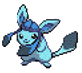
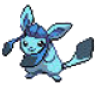
rectification de problèmes dans boucles de jeu

Changed region(s): [[0.0, 0.0274, 0.9512, 0.9589], [0.3415, 0.3562, 0.3902, 0.3836], [0.2927, 0.3562, 0.3171, 0.3836]]

diff --git a/frontend/src/Components/Pages/EvoRumblePage.js b/frontend/src/Components/Pages/EvoRumblePage.js
@@ -107,6 +107,7 @@ function renderGoBackHomeButton() {
     clearPage();
     Navigate('/');
   });
+
   const rematch = document.createElement('input');
   rematch.value = 'Rematch';
   rematch.className = 'btn btn-success mt-3 mx-2';
@@ -142,7 +143,7 @@ async function creationParties() {
     gameState.attacksAndDamages = monsterAndAttack.allAttacks;
 
     // création des équipes avec des monstres au hasard
-    // essayer de faire ne sorte qu'il n'y ai que des monstres différents
+    // essayer de faire ne sorte qu'il n'y ai que des monstres différents ?
     for (let i = 0; i < nbMonstresParEquipe; i += 1) {
       const randomIndex1 = Math.floor(Math.random() * monstres.length);
       const randomIndex2 = Math.floor(Math.random() * monstres.length);
@@ -162,7 +163,7 @@ async function creationParties() {
     // historique remis à zero
     historique.id = 'hist';
     historique.innerHTML =
-      '<div class="text-decoration-underline">Historique des attaques éffectuées:</div>';
+      `<div id='hist_title'>Historique des attaques éffectuées:</div>`;
     renderGameState();
   } catch (err) {
     console.error('showAllMonsters::error: ', err);
@@ -182,15 +183,15 @@ function renderGameState() {
   const main = document.querySelector('main');
   // si l'une des équipes n'a plus de monstres => fin de partie
   if (gameState.opponentTeam.length === 0 || gameState.firstPlayerTeam.length === 0) {
-    main.innerHTML = `La partie est terminée<br>`;
     renderGoBackHomeButton();
   } else {
+    const indexMonster = gameState.firstPlayerTeam.findIndex((monstre) => monstre.nom === gameState.activeMonsterPlayer.nom);
     // eslint-disable-next-line no-unused-vars
-    const nomMonstre1 = gameState.activeMonsterPlayer;
+    const playerMonster = gameState.activeMonsterPlayer;
     // eslint-disable-next-line no-unused-vars
-    const nomMonstre2 = gameState.opponentActiveMonster;
-    console.log(`EQ1: ${nomMonstre1.nom}`);
-    console.log(`EQ2: ${nomMonstre2.nom}`);
+    const opponentMonster = gameState.opponentActiveMonster;
+    console.log(`EQ1: ${playerMonster.nom}`);
+    console.log(`EQ2: ${opponentMonster.nom}`);
     main.innerHTML = `<div class="container bg-white text-center mt-5">
 <div class="row">
   <div class="col gameWindow m-1 border bg-image" style="background-image: url(${background}); background-size: cover; background-position: center;">
@@ -198,8 +199,9 @@ function renderGameState() {
     <div id="opponent">
       <div id="info">
         <div id="nameOpponent">
-          ${nomMonstre2.nom}
-          (${nomMonstre2.type})
+          ${opponentMonster.nom}
+          (${opponentMonster.type})
+          PV: ${opponentMonster.pointsDeVie}/${gameState.baseLifeListTeam2[0]}
         </div>
 
         <div id="opponentLifeBar">
@@ -211,22 +213,23 @@ function renderGameState() {
 
       </div>
 
-      <div  id="monstre_2">
-        <img src="${dicoImg[nomMonstre2.nom]}" class="img-fluid float-right">
+      <div  id="monstre_oppopnent">
+        <img src="${dicoImg[opponentMonster.nom]}" class="img-fluid float-right">
       </div>
     </div>
 
     <div id="spacebetween"></div>
 
     <div id="player">
-      <div id="monstre_1">
-            <img src="${dicoImg[nomMonstre1.nom]}" class="img-fluid float-left">
+      <div id="monstre_player">
+            <img src="${dicoImg[playerMonster.nom]}" class="img-fluid float-left img_player">
       </div>
 
       <div id="info">
         <div id="namePlayer">
-          ${nomMonstre1.nom}
-          (${nomMonstre1.type})
+          ${playerMonster.nom}
+          (${playerMonster.type})
+          PV: ${playerMonster.pointsDeVie}/${gameState.baseLifeListTeam1[indexMonster]}
         </div>
         <div id="playerLifeBar">
           <div id="vieRempliePlayer"></div>
@@ -241,18 +244,16 @@ function renderGameState() {
 
   <div class="col  history m-1 border"></div>
   <div class="w-100"></div>
-  <div class="col atkButtons m-1 border"></div>
+  <div class="atkButtons m-1 border"></div>
   <div class="col quitButton m-1 border"></div>
 </div>
 </div>`;
 
-    const perso1 = document.getElementById('monstre_1');
-    const perso2 = document.getElementById('monstre_2');
+    const perso1 = document.getElementById('monstre_player');
+    const perso2 = document.getElementById('monstre_oppopnent');
 
-    console.log(`VIE DE BASE OP ${gameState.baseLifeTeam2}`);
-    console.log(`VIE DE BASE J ${gameState.baseLifeTeam1}`);
-    mettreAJourBarreDeVie(getPourcentageLifeLeft(gameState.opponentActiveMonster.pointsDeVie, gameState.baseLifeTeam2), 1);
-    mettreAJourBarreDeVie(getPourcentageLifeLeft(gameState.activeMonsterPlayer.pointsDeVie, gameState.baseLifeTeam1), 2);
+    updateLifeBar(getPourcentageLifeLeft(gameState.opponentActiveMonster.pointsDeVie, gameState.baseLifeTeam2), 1);
+    updateLifeBar(getPourcentageLifeLeft(gameState.activeMonsterPlayer.pointsDeVie, gameState.baseLifeTeam1), 2);
     // animation du monstre de l'équipe 1
     anime({
       targets: perso1,
@@ -260,7 +261,7 @@ function renderGameState() {
         { value: '-10px', duration: 1500, easing: 'easeInOutQuad' }, // Déplacement vers le haut
         { value: '0px', duration: 1500, easing: 'easeInOutQuad' }, // Retour vers le bas
       ],
-      easing: 'linear', // Utiliser 'linear' pour un mouvement fluide
+      easing: 'linear',
       loop: true,
     });
 
@@ -271,7 +272,7 @@ function renderGameState() {
         { value: '-10px', duration: 1400, easing: 'easeInOutQuad' }, // Déplacement vers le haut
         { value: '0px', duration: 1400, easing: 'easeInOutQuad' }, // Retour vers le bas
       ],
-      easing: 'linear', // Utiliser 'linear' pour un mouvement fluide
+      easing: 'linear',
       loop: true,
     });
 
@@ -288,29 +289,28 @@ function renderGameState() {
       atk.innerHTML = `<div class="nom">${attackName} </div><div class="damage">${atkProperties.damage} damage </div><div class="type"> (${atkProperties.type})</div>`;
       atk.addEventListener('click', (e) => {
         const nbDegats = atkProperties.damage;
+        let multiplicateur;
 
         const nom = e.currentTarget.querySelector('.nom').innerHTML;
 
         switch (true) {
           case gameState.opponentActiveMonster.faiblesses.includes(atkProperties.type):
-            historique.innerHTML += `Le joueur 1 a joué ${nom} pour une valeur de ${nbDegats *
-              2} pv<br>`;
-            gameState.opponentActiveMonster.pointsDeVie -= nbDegats * 2;
+            multiplicateur = 2;
             break;
 
           case gameState.opponentActiveMonster.resistances.includes(atkProperties.type):
-            historique.innerHTML += `Le joueur 1 a joué ${nom} pour une valeur de ${nbDegats /
-              2} pv<br>`;
-            gameState.opponentActiveMonster.pointsDeVie -= nbDegats / 2;
+            multiplicateur = 0.5;
             break;
 
           default:
-            historique.innerHTML += `Le joueur 1 a joué ${nom} pour une valeur de ${nbDegats} pv<br>`;
-            gameState.opponentActiveMonster.pointsDeVie -= nbDegats;
+            multiplicateur = 1;
             break;
         }
 
-        mettreAJourBarreDeVie(getPourcentageLifeLeft(gameState.opponentActiveMonster.pointsDeVie, gameState.baseLifeTeam2), 1);
+        historique.innerHTML += `Le joueur 1 a joué ${nom} pour une valeur de ${nbDegats} pv<br>`;
+        gameState.opponentActiveMonster.pointsDeVie -= (nbDegats*multiplicateur);
+
+        updateLifeBar(getPourcentageLifeLeft(gameState.opponentActiveMonster.pointsDeVie, gameState.baseLifeTeam2), 1);
       
 
         if (gameState.opponentActiveMonster.pointsDeVie <= 0) {
@@ -321,21 +321,20 @@ function renderGameState() {
           gameState.opponentTeam.splice(index, 1); 
           gameState.baseLifeListTeam2.splice(index, 1); 
 
-          // problème quand liste vide
           [gameState.opponentActiveMonster] = gameState.opponentTeam;
+
           // eslint-disable-next-line prefer-destructuring
           gameState.baseLifeTeam2 = gameState.baseLifeListTeam2[0];
-          console.log(gameState.opponentActiveMonster);
 
-          // signifie qu'il n'y a plus de monstre dans l'équipe
+          // signifie qu'il y a un monstre dans l'équipe
           if (gameState.opponentActiveMonster !== undefined){
             gameState.baseLifeTeam2 = gameState.opponentActiveMonster.pointsDeVie;
           }
           
         } else {
-          playOrdi();
+          opponentPlay();
           
-          mettreAJourBarreDeVie(getPourcentageLifeLeft(gameState.activeMonsterPlayer.pointsDeVie, gameState.baseLifeTeam1), 2);
+          updateLifeBar(getPourcentageLifeLeft(gameState.activeMonsterPlayer.pointsDeVie, gameState.baseLifeTeam1), 2);
           if (gameState.activeMonsterPlayer.pointsDeVie <= 0) {
             historique.innerHTML += `<div class="text-danger">EQUIPE 1: Le monstre ${JSON.stringify(
               gameState.activeMonsterPlayer.nom,
@@ -355,22 +354,27 @@ function renderGameState() {
       document.querySelector('.atkButtons').appendChild(divAttack);
     }
 
+    // document.querySelector('.atkButtons').innerHTML += 'Choisissez un autre monstre à faire renter en jeu:'
     // crétaion des boutons pour permettre de changer parmis les monstres restants
     for (let i = 0; i < gameState.firstPlayerTeam.length; i += 1) {
       if (gameState.firstPlayerTeam[i] !== gameState.activeMonsterPlayer) {
         const monstre = document.createElement('button');
-        monstre.className = 'btn btn-info m-1';
-        monstre.innerHTML = `${gameState.firstPlayerTeam[i].nom}`;
+        const currentMonster = gameState.firstPlayerTeam[i];
+
+        monstre.className = 'btn m-1';
+        monstre.id = `btn-${currentMonster.type}`;
+        monstre.innerHTML = `<div>Nom: ${currentMonster.nom}</div><div>PV: ${currentMonster.pointsDeVie}/${gameState.baseLifeListTeam1[i]}</div>`;
+
         monstre.addEventListener('click', () => {
           gameState.activeMonsterPlayer = gameState.firstPlayerTeam[i];
           gameState.baseLifeTeam1 = gameState.baseLifeListTeam1[i];
           historique.innerHTML += `<div class="text-success">EQUIPE 1: Le monstre ${JSON.stringify(
             gameState.activeMonsterPlayer.nom,
           )} est entré</div>`;
-          document.querySelector('#monstre_2').innerHTML = `<img src="${
+          document.querySelector('#monstre_player').innerHTML = `<img src="${
             dicoImg[gameState.activeMonsterPlayer.nom]
           }" class="img-fluid float-right">`;
-          playOrdi();
+          opponentPlay();
           clearPage();
           renderGameState();
         });
@@ -387,36 +391,36 @@ function renderGameState() {
     document.querySelector('.quitButton').appendChild(rageQuit);
     // document.querySelector('.quitButton').innerHTML += getHtmlNbMonster(4);
   }
-
-  function playOrdi() {
-    const randomAtkIndex = Math.floor(Math.random() * 4);
-    let atkOrdi = gameState.opponentActiveMonster.attaques[randomAtkIndex];
-    atkOrdi = getDamage(atkOrdi);
-    const nbDegatsOrdi = atkOrdi.damage;
-    switch (true) {
-      case gameState.activeMonsterPlayer.faiblesses.includes(atkOrdi.type):
-        historique.innerHTML += `Le joueur 2 a joué ${
-          atkOrdi.name
-        } pour une valeur de ${nbDegatsOrdi * 2} pv<br>`;
-        gameState.activeMonsterPlayer.pointsDeVie -= nbDegatsOrdi * 2;
-        break;
-
-      case gameState.activeMonsterPlayer.resistances.includes(atkOrdi.type):
-        historique.innerHTML += `Le joueur 2 a joué ${
-          atkOrdi.name
-        } pour une valeur de ${nbDegatsOrdi / 2} pv<br>`;
-        gameState.activeMonsterPlayer.pointsDeVie -= nbDegatsOrdi / 2;
-        break;
-
-      default:
-        historique.innerHTML += `Le joueur 2 a joué ${atkOrdi.name} pour une valeur de ${nbDegatsOrdi} pv<br>`;
-        gameState.activeMonsterPlayer.pointsDeVie -= nbDegatsOrdi;
-        break;
-    }
-  }
 }
 
-function mettreAJourBarreDeVie(pourcentage, numberPlayer) {
+
+function opponentPlay() {
+  const randomAtkIndex = Math.floor(Math.random() * 4);
+  let atkOrdi = gameState.opponentActiveMonster.attaques[randomAtkIndex];
+  atkOrdi = getDamage(atkOrdi);
+  const nbDegatsOrdi = atkOrdi.damage;
+  let multiplicateur;
+
+  switch (true) {
+    case gameState.activeMonsterPlayer.faiblesses.includes(atkOrdi.type):
+      multiplicateur = 2;
+      break;
+
+    case gameState.activeMonsterPlayer.resistances.includes(atkOrdi.type):
+      multiplicateur = 0.5;
+      break;
+
+    default:
+      multiplicateur = 1;
+      break;
+  }
+
+  historique.innerHTML += `<div>Le joueur 2 a joué ${atkOrdi.name} pour une valeur de ${nbDegatsOrdi*multiplicateur} pv</div><br>`;
+  gameState.activeMonsterPlayer.pointsDeVie -= (nbDegatsOrdi*multiplicateur);
+}
+
+
+function updateLifeBar(pourcentage, numberPlayer) {
   const barreDeVieRemplieOpponent = document.getElementById('vieRemplieOpponent');
   const barreDeVieRempliePlayer = document.getElementById('vieRempliePlayer');
 

diff --git a/frontend/src/Components/Navbar/Navbar.js b/frontend/src/Components/Navbar/Navbar.js
@@ -1,6 +1,7 @@
 // eslint-disable-next-line no-unused-vars
 import { Navbar as BootstrapNavbar } from 'bootstrap';
-import { isAuthenticated, getAuthenticatedUser} from '../../utils/auths' 
+import { isAuthenticated, getAuthenticatedUser} from '../../utils/auths';
+import logo from '../../img/LogoJS.png';
 
 /**
  * Render the Navbar which is styled by using Bootstrap
@@ -23,7 +24,9 @@ const Navbar = () => {
           </div>
           <div class="nav-item col-4 text-center" id="divCentre">
             <div class="nav-item p-2">
-              <a class="nav-link" href="#" data-uri="/">EvoRumbleLOGO</a>
+              <a class="nav-link" href="#" data-uri="/">
+                <img src="${logo}" alt="Logo EvoRumble">
+              </a>
             </div>
           </div>
           <div class="nav-item col-4 d-flex justify-content-end" id="divDroite">

diff --git a/frontend/src/stylesheets/main.css b/frontend/src/stylesheets/main.css
@@ -266,3 +266,43 @@ body{
     margin: 10px;
 }
 
+.atkButtons{
+    width: 75%;
+}
+
+#btn-vol{
+    background-color: rgb(202, 200, 200);
+}
+
+#btn-electric{
+    background-color: rgb(248, 248, 180);
+}
+
+#btn-feu{
+    background-color: rgb(255, 215, 142);
+}
+
+#btn-plante{
+    background-color: rgb(229, 255, 191);
+}
+
+#btn-eau{
+    background-color: rgb(182, 225, 253);
+}
+
+#btn-terre{
+    background-color: rgb(197, 180, 157);
+}
+
+.img_player{
+    transform: scaleX(-1);
+}
+
+#hist_title{
+    font-weight: bold;
+    text-decoration: underline;
+}
+
+#hist{
+    vertical-align: top;
+}
